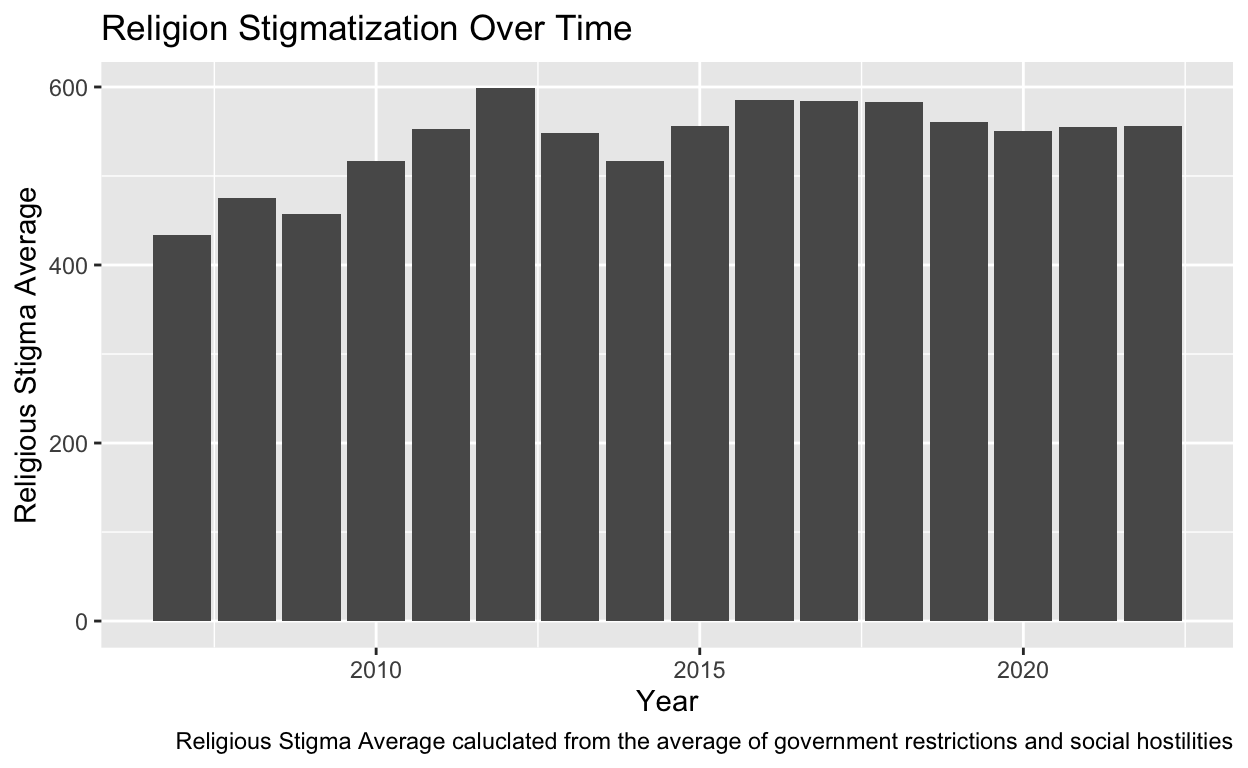
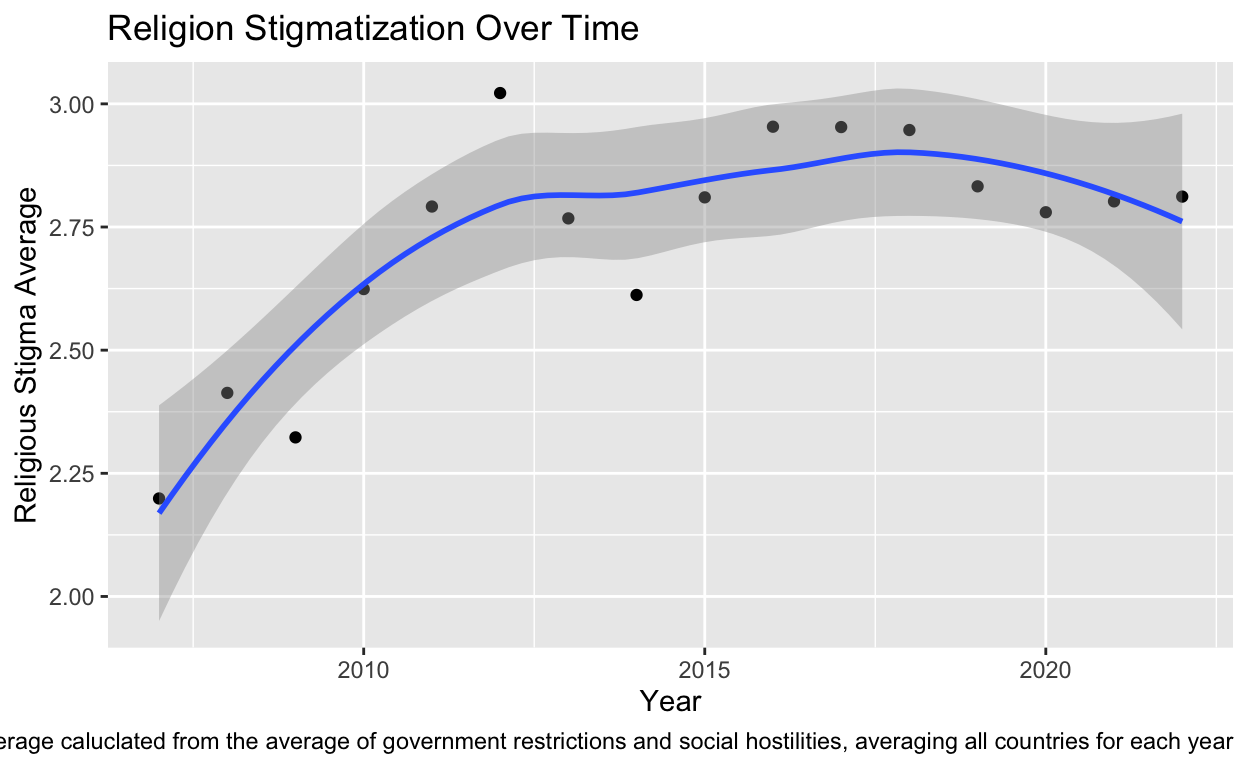
Milestone 2 Revised Graph

diff --git a/index.html b/index.html
@@ -1572,14 +1572,16 @@ code span.wa { color: #5e5e5e; font-style: italic; } /* Warning */
 <div class="layout-chunk" data-layout="l-body">
 <div class="sourceCode">
 <pre class="sourceCode r"><code class="sourceCode r"><span><span class='va'>religion_means</span> <span class='op'>&lt;-</span> <span class='va'>religion_data</span> <span class='op'>|&gt;</span></span>
-<span><span class='co'>#  filter(Question_Year %in% c(2007, 2012, 2017, 2022)) |&gt;</span></span>
 <span>  <span class='fu'><a href='https://dplyr.tidyverse.org/reference/group_by.html'>group_by</a></span><span class='op'>(</span><span class='va'>Ctry_EditorialName</span>, <span class='va'>Question_Year</span><span class='op'>)</span> <span class='op'>|&gt;</span></span>
-<span>  <span class='fu'><a href='https://dplyr.tidyverse.org/reference/summarise.html'>summarize</a></span><span class='op'>(</span>religion_avg <span class='op'>=</span> <span class='fu'><a href='https://rdrr.io/r/base/mean.html'>mean</a></span><span class='op'>(</span><span class='op'>(</span><span class='va'>SHI</span> <span class='op'>+</span> <span class='va'>GRI</span><span class='op'>)</span><span class='op'>/</span><span class='fl'>2</span>, na.rm <span class='op'>=</span> <span class='cn'>TRUE</span><span class='op'>)</span><span class='op'>)</span></span>
+<span>  <span class='fu'><a href='https://dplyr.tidyverse.org/reference/summarise.html'>summarize</a></span><span class='op'>(</span>religion_avg <span class='op'>=</span> <span class='fu'><a href='https://rdrr.io/r/base/mean.html'>mean</a></span><span class='op'>(</span><span class='op'>(</span><span class='va'>SHI</span> <span class='op'>+</span> <span class='va'>GRI</span><span class='op'>)</span><span class='op'>/</span><span class='fl'>2</span>, na.rm <span class='op'>=</span> <span class='cn'>TRUE</span><span class='op'>)</span><span class='op'>)</span> <span class='op'>|&gt;</span></span>
+<span>  <span class='fu'><a href='https://dplyr.tidyverse.org/reference/group_by.html'>group_by</a></span><span class='op'>(</span><span class='va'>Question_Year</span><span class='op'>)</span> <span class='op'>|&gt;</span></span>
+<span>  <span class='fu'><a href='https://dplyr.tidyverse.org/reference/summarise.html'>summarize</a></span><span class='op'>(</span>country_avg <span class='op'>=</span> <span class='fu'><a href='https://rdrr.io/r/base/mean.html'>mean</a></span><span class='op'>(</span><span class='va'>religion_avg</span>, na.rm <span class='op'>=</span> <span class='cn'>TRUE</span><span class='op'>)</span><span class='op'>)</span></span>
 <span></span>
 <span><span class='va'>religion_SHI_GRI</span> <span class='op'>&lt;-</span> <span class='va'>religion_means</span> <span class='op'>|&gt;</span></span>
-<span>  <span class='fu'><a href='https://ggplot2.tidyverse.org/reference/ggplot.html'>ggplot</a></span><span class='op'>(</span><span class='fu'><a href='https://ggplot2.tidyverse.org/reference/aes.html'>aes</a></span><span class='op'>(</span>x <span class='op'>=</span> <span class='va'>Question_Year</span>, y <span class='op'>=</span> <span class='va'>religion_avg</span><span class='op'>)</span><span class='op'>)</span> <span class='op'>+</span></span>
-<span>  <span class='fu'><a href='https://ggplot2.tidyverse.org/reference/geom_bar.html'>geom_col</a></span><span class='op'>(</span><span class='op'>)</span> <span class='op'>+</span></span>
-<span>  <span class='fu'><a href='https://ggplot2.tidyverse.org/reference/labs.html'>labs</a></span><span class='op'>(</span>title <span class='op'>=</span> <span class='st'>"Religion Stigmatization Over Time"</span>, caption <span class='op'>=</span> <span class='st'>"Religious Stigma Average caluclated from the average of government restrictions and social hostilities"</span>, x <span class='op'>=</span> <span class='st'>"Year"</span>, y <span class='op'>=</span> <span class='st'>"Religious Stigma Average"</span><span class='op'>)</span></span>
+<span>  <span class='fu'><a href='https://ggplot2.tidyverse.org/reference/ggplot.html'>ggplot</a></span><span class='op'>(</span><span class='fu'><a href='https://ggplot2.tidyverse.org/reference/aes.html'>aes</a></span><span class='op'>(</span>x <span class='op'>=</span> <span class='va'>Question_Year</span>, y <span class='op'>=</span> <span class='va'>country_avg</span><span class='op'>)</span><span class='op'>)</span> <span class='op'>+</span></span>
+<span>  <span class='fu'><a href='https://ggplot2.tidyverse.org/reference/labs.html'>labs</a></span><span class='op'>(</span>title <span class='op'>=</span> <span class='st'>"Religion Stigmatization Over Time"</span>, caption <span class='op'>=</span> <span class='st'>"Religious Stigma Average caluclated from the average of government restrictions and social hostilities, averaging all countries for each year"</span>, x <span class='op'>=</span> <span class='st'>"Year"</span>, y <span class='op'>=</span> <span class='st'>"Religious Stigma Average"</span><span class='op'>)</span> <span class='op'>+</span></span>
+<span>  <span class='fu'><a href='https://ggplot2.tidyverse.org/reference/geom_point.html'>geom_point</a></span><span class='op'>(</span><span class='op'>)</span> <span class='op'>+</span></span>
+<span>  <span class='fu'><a href='https://ggplot2.tidyverse.org/reference/geom_smooth.html'>geom_smooth</a></span><span class='op'>(</span><span class='op'>)</span></span>
 <span></span>
 <span><span class='va'>religion_SHI_GRI</span></span></code></pre>
 </div>
